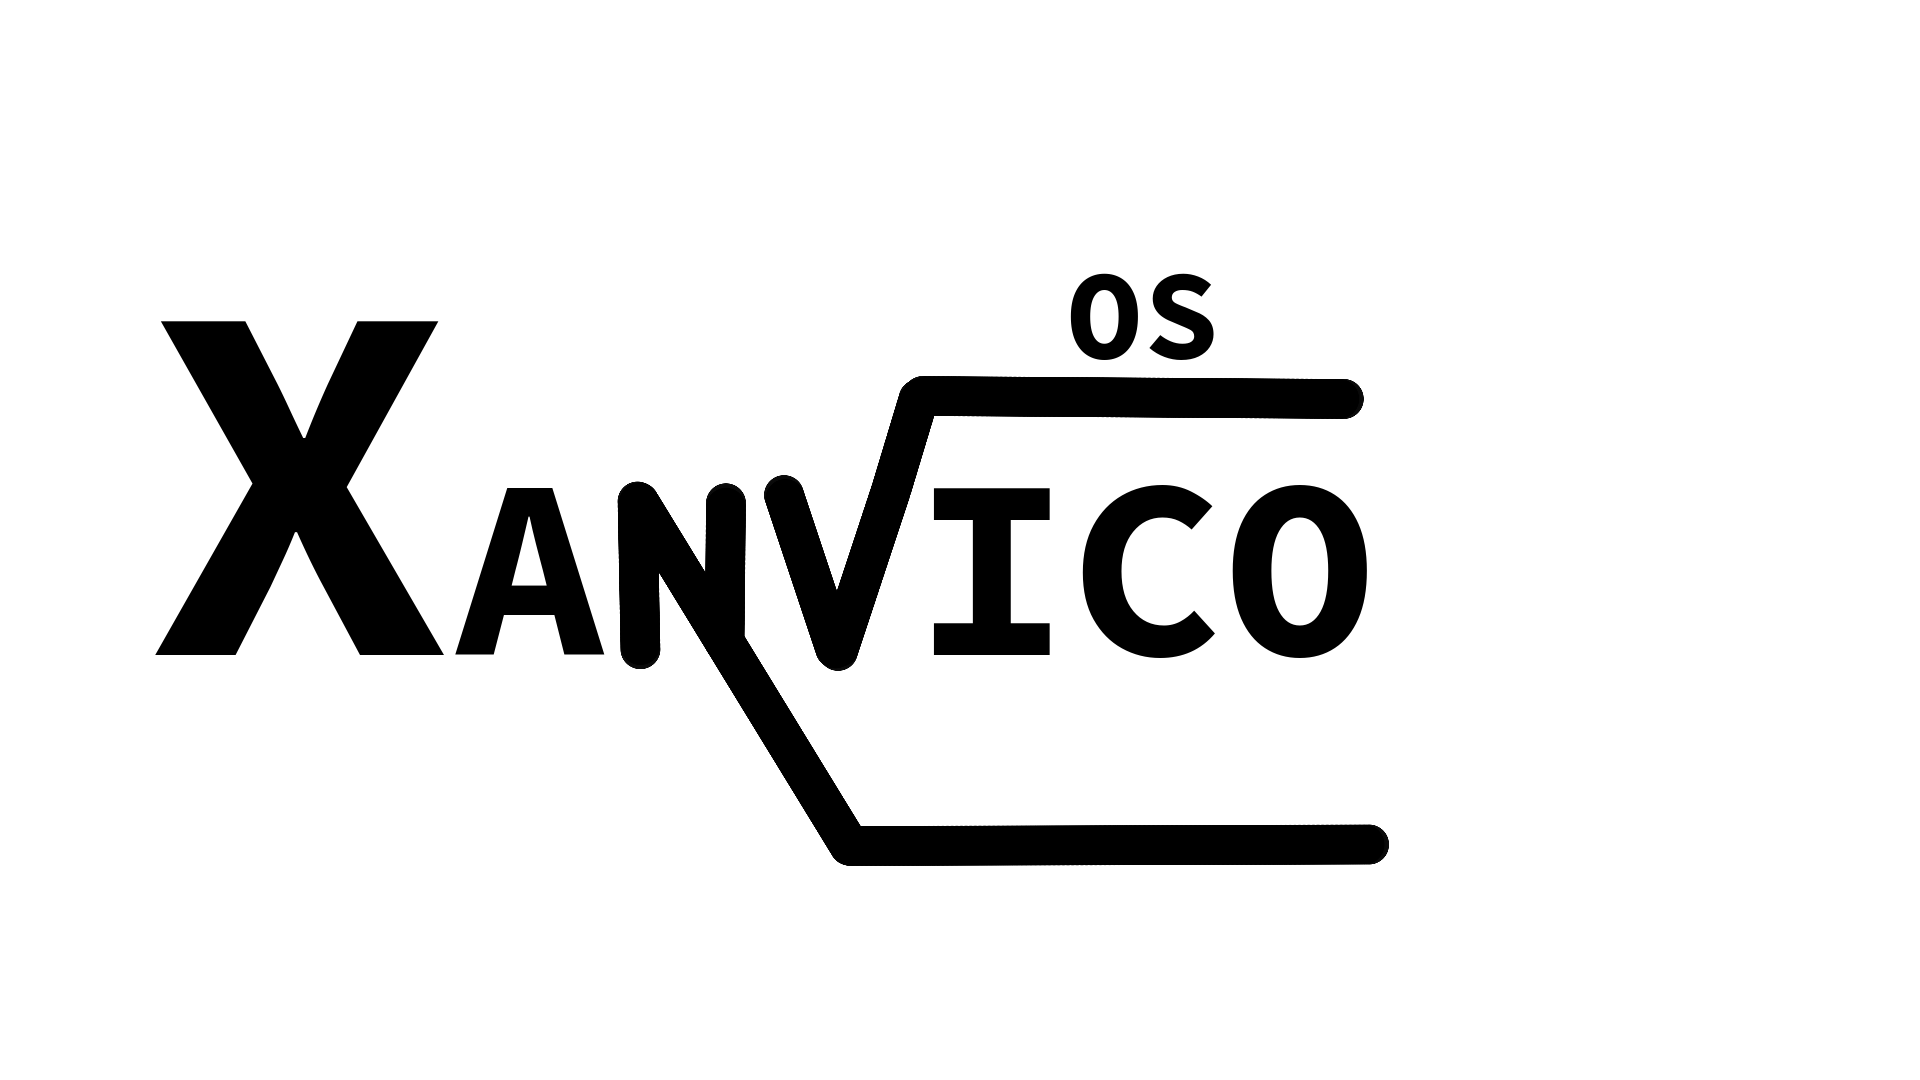
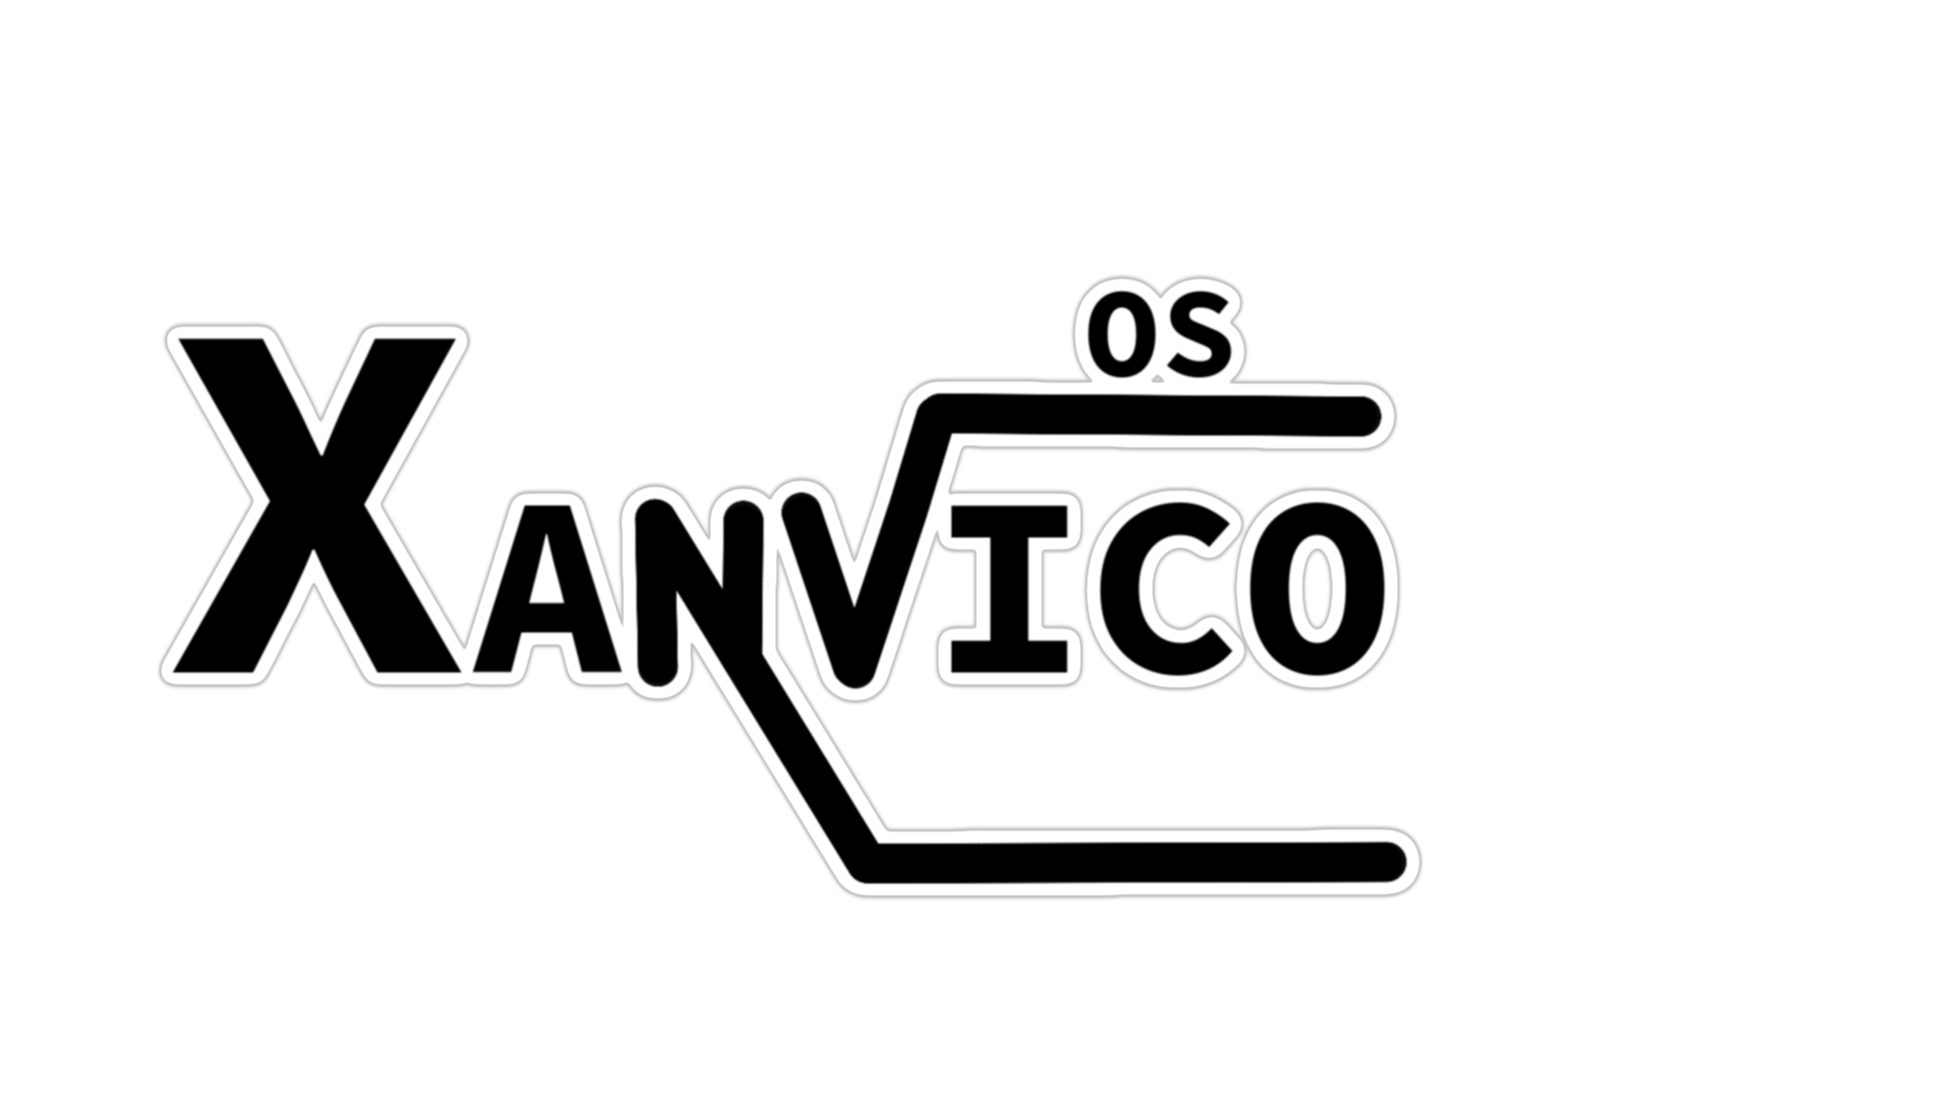
Add XanvicOS png in README

Changed region(s): [[0.0625, 0.2444, 0.75, 0.825], [0.1875, 0.275, 0.25, 0.3361]]

diff --git a/README.md b/README.md
@@ -1,3 +1,5 @@
+![](xanvicos.png "XanvicOS")
+
 Hey all, Vincenzo Aleskey Brocato (VinceAle7082) here! <br>
 This is a little project where I try to explore OS developing just for fun!<br>
 
